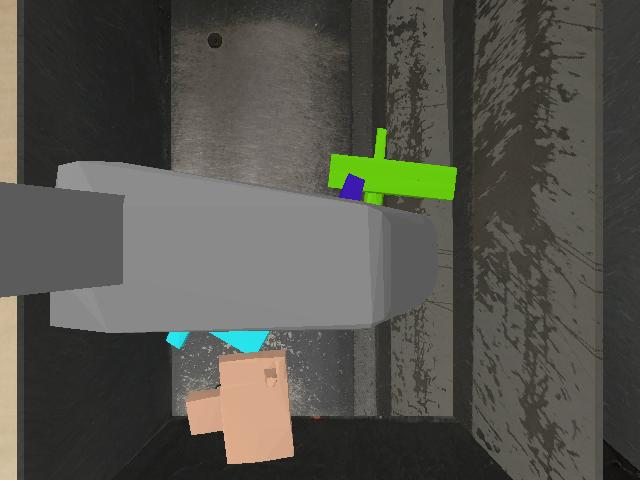
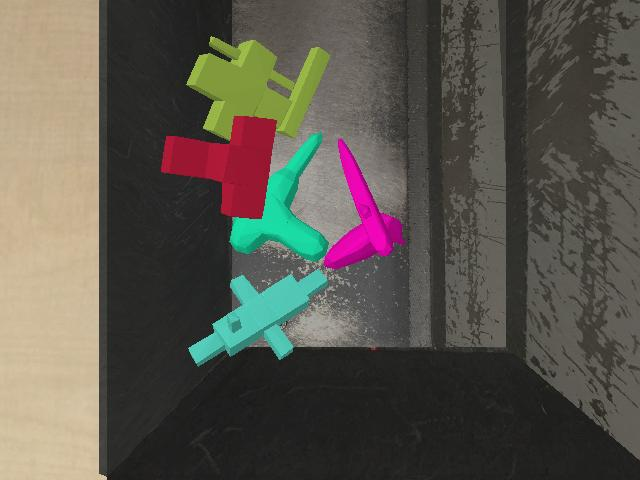
get hand camera image

diff --git a/env/kuka_ir_env.py b/env/kuka_ir_env.py
@@ -187,14 +187,12 @@ class KukaIrEnv(KukaGymEnv):
 
 
   def _get_hand_cam(self):
-    self.l_fing_idx = 9
-    self.r_fing_idx = 12
-    l_fing_link = p.getLinkState(self._kuka.kukaUid, self.l_fing_idx)
-    r_fing_link = p.getLinkState(self._kuka.kukaUid, self.r_fing_idx)
+    self.hand_cam_idx = 15
+    hand_cam_link = p.getLinkState(self._kuka.kukaUid, self.hand_cam_idx)
     
-    look = l_fing_link[0]
-    # print(look)
-    distance = 0.1
+    look = hand_cam_link[0]
+    print(look)
+    distance = 0.01
     yaw, pitch, roll = 0, -90, 0
     fov = 45.
     aspect = self._width / self._height

diff --git a/env/kuka.py b/env/kuka.py
@@ -51,7 +51,7 @@ class Kuka:
                                       [0.000000, 0.000000, 0.000000, 1.000000])
     self.jointPositions = [
         0.006418, 0.413184, -0.011401, -1.589317, 0.005379, 1.137684, -0.006539, 0.000048,
-        -0.299912, 0.000000, -0.000043, 0.299960, 0.000000, -0.000200, 0, 0
+        -0.299912, 0.000000, -0.000043, 0.299960, 0.000000, -0.000200, 0.000000, 0.000000
     ]
     self.numJoints = p.getNumJoints(self.kukaUid)
     for jointIndex in range(self.numJoints):

diff --git a/run_sim.py b/run_sim.py
@@ -30,7 +30,7 @@ class Kuka_sim:
         # get joints
         for i in range(p.getNumJoints(self.kuka_id)):
             info = p.getJointInfo(self.kuka_id, i)
-            # print(info)
+            print(info)
             joint_name = info[1]
             joint_type = info[2]
             if joint_type == p.JOINT_PRISMATIC or joint_type == p.JOINT_REVOLUTE:
